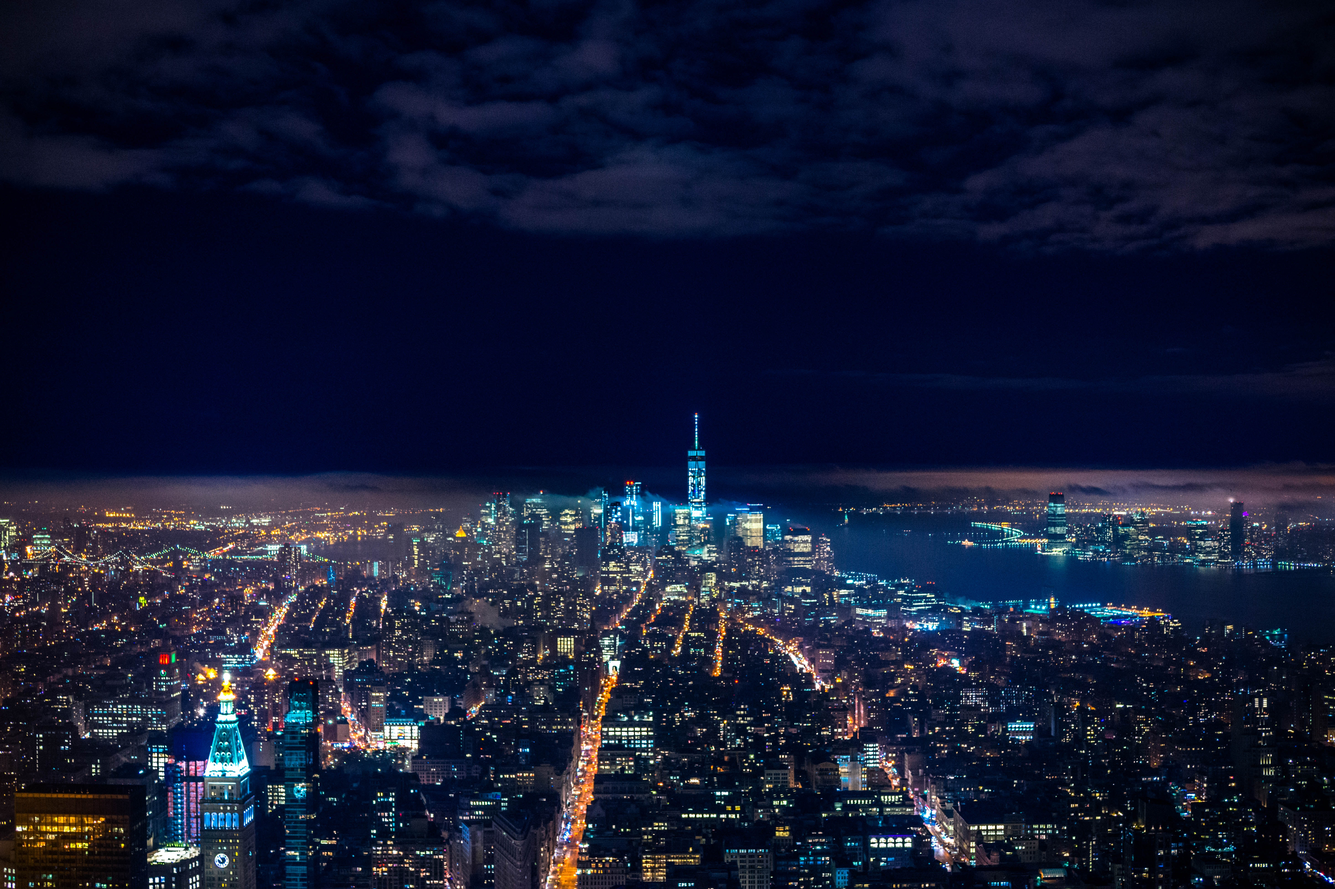
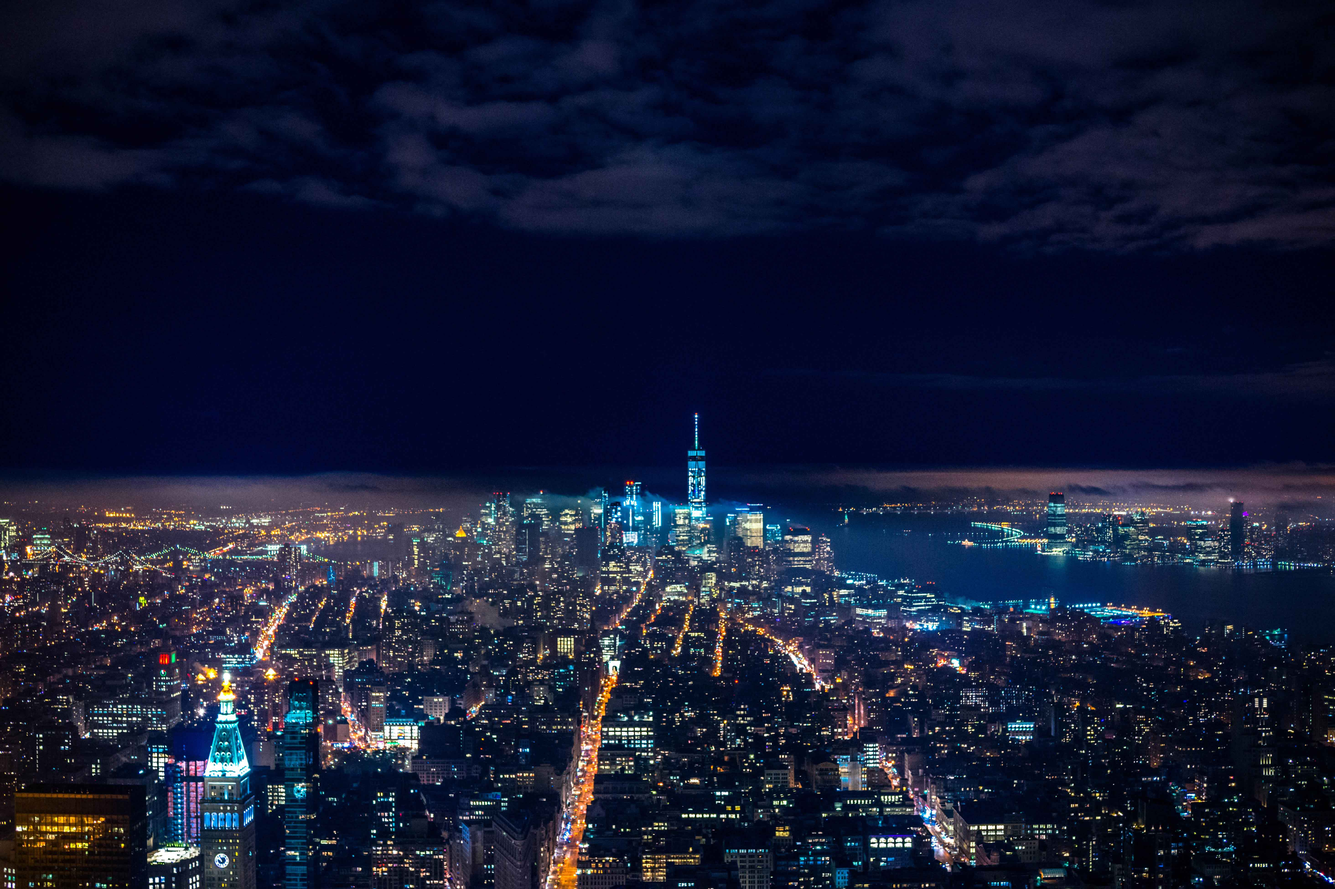
more styling

diff --git a/client/src/Components/Styles/FrontEndCard.scss b/client/src/Components/Styles/FrontEndCard.scss
@@ -26,7 +26,7 @@ $bgImage: url('../../images/bg_code2.jpg');
     background-image: linear-gradient(to bottom, #727787, #5f6474, #4c5261, #3a414f, #29303d);
     transition: all 1s;
     display: flex;
-    flex-wrap: wrap;
+    flex-wrap: row wrap;
     opacity: 0.5;
     flex: 1;
     &.enter {
@@ -34,16 +34,20 @@ $bgImage: url('../../images/bg_code2.jpg');
       opacity: 1;
     }
     .titleContainer {
-      flex: 1;
+      flex: 1 1 400px;
       opacity: 0;
+      min-width: 35%;
       padding: 2%;
+      display: flex;
+      justify-content: center;
+      align-items: center;
       .title {
         position: relative;
         font-family: 'Montserrat', sans-serif;
         text-transform: uppercase;
         font-size: 3.5em;
         font-weight: 700;
-        text-align: center;
+        display: inline-block;
       }
       &.enter {
         transition: opacity 1s;
@@ -51,19 +55,47 @@ $bgImage: url('../../images/bg_code2.jpg');
       }
     }
     .blurbContainer {
-      flex: 2;
+      flex: 3 1 600px;
       font-family: 'Lato', sans-serif;
       text-align: center;
       .blurb {
         padding: 5%;
       }
     }
+    @media screen and (max-width: 775px) {
+      flex-direction: column;
+    }
   }
   .content {
     transition: all 1s;
-    flex: 2;
+    flex: 3;
     &.enter {
       transition: all 2s;
+      flex: 2;
     }
+  }
+}
+
+@keyframes revealAnimLTR {
+  0% {
+    width: 0;
+    left: 0;
+  }
+  65% {
+    width: 100%;
+    left: 0;
+  }
+  100% {
+    width: 0;
+    left: 100%;
+  }
+}
+
+@keyframes textHidden {
+  0% {
+    opacity: 0;
+  }
+  100% {
+    opacity: 0;
   }
 }

diff --git a/client/src/Components/Styles/Intro.scss b/client/src/Components/Styles/Intro.scss
@@ -22,7 +22,8 @@ $bgImage: url('../../images/bg_code.jpg');
     filter: blur(8px) grayscale(50%);
     z-index: 0;
     &.visible {
-      transition: all 2s;
+      transition: filter 2s;
+      transition: transform 1.2s;
       filter: blur(12.5px) grayscale(100%);
       transform: scale(1.02);
     }
